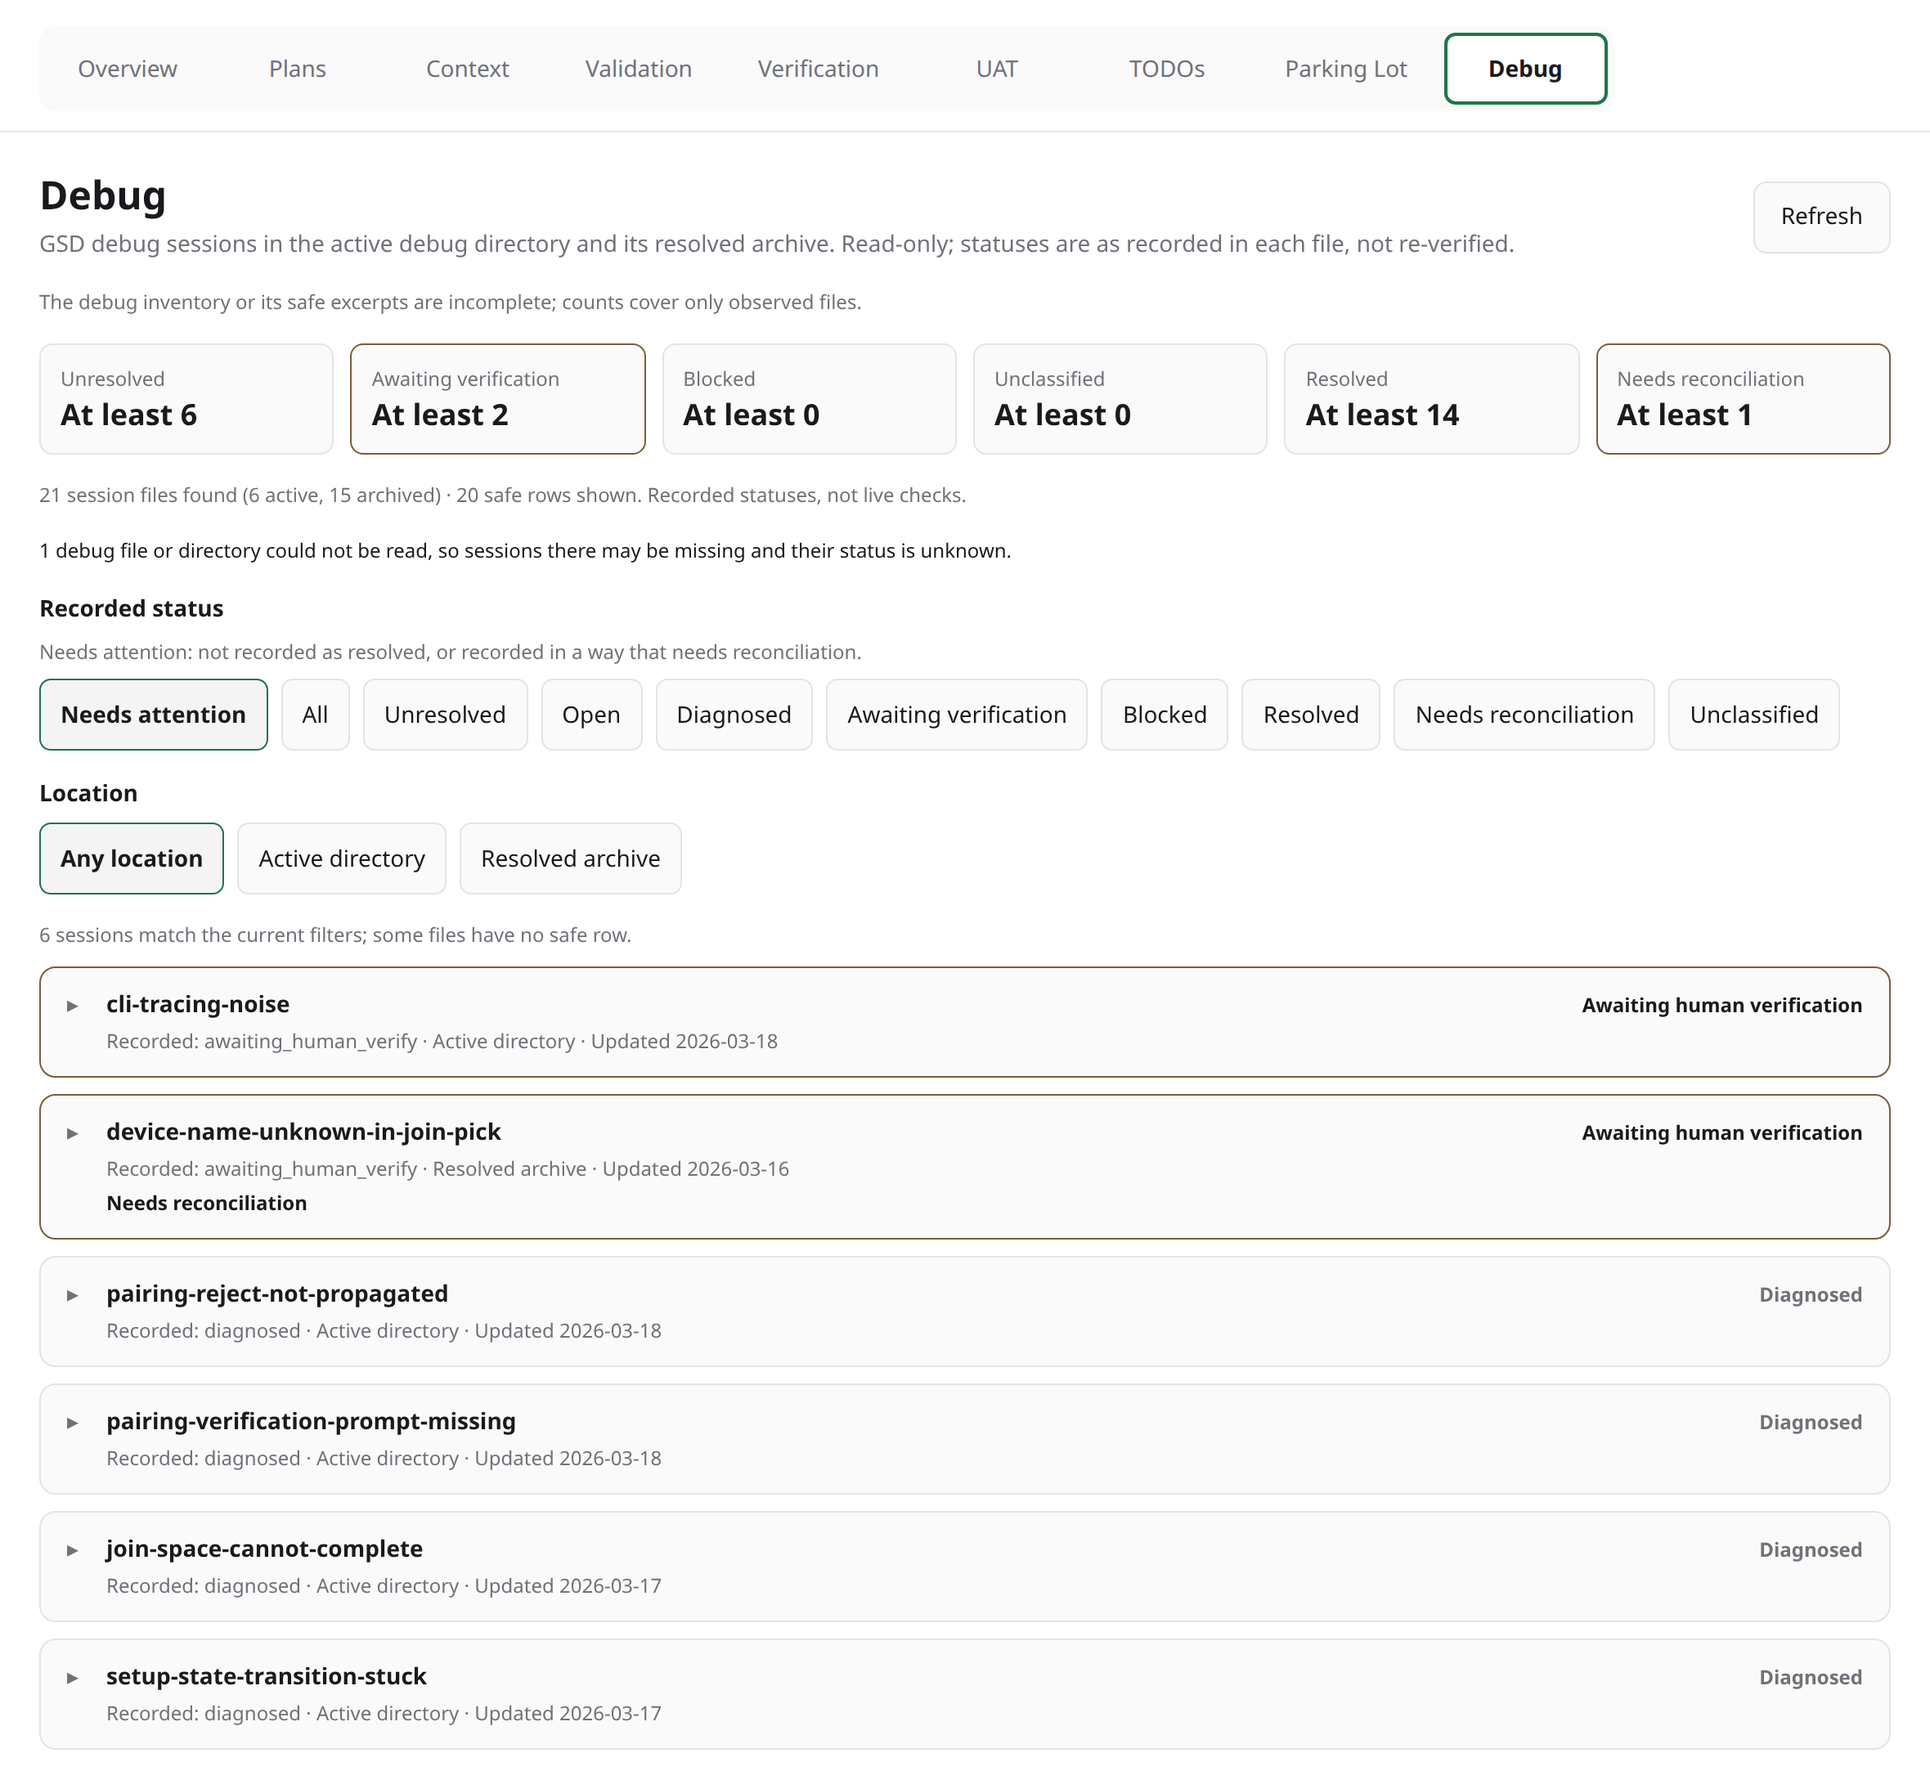
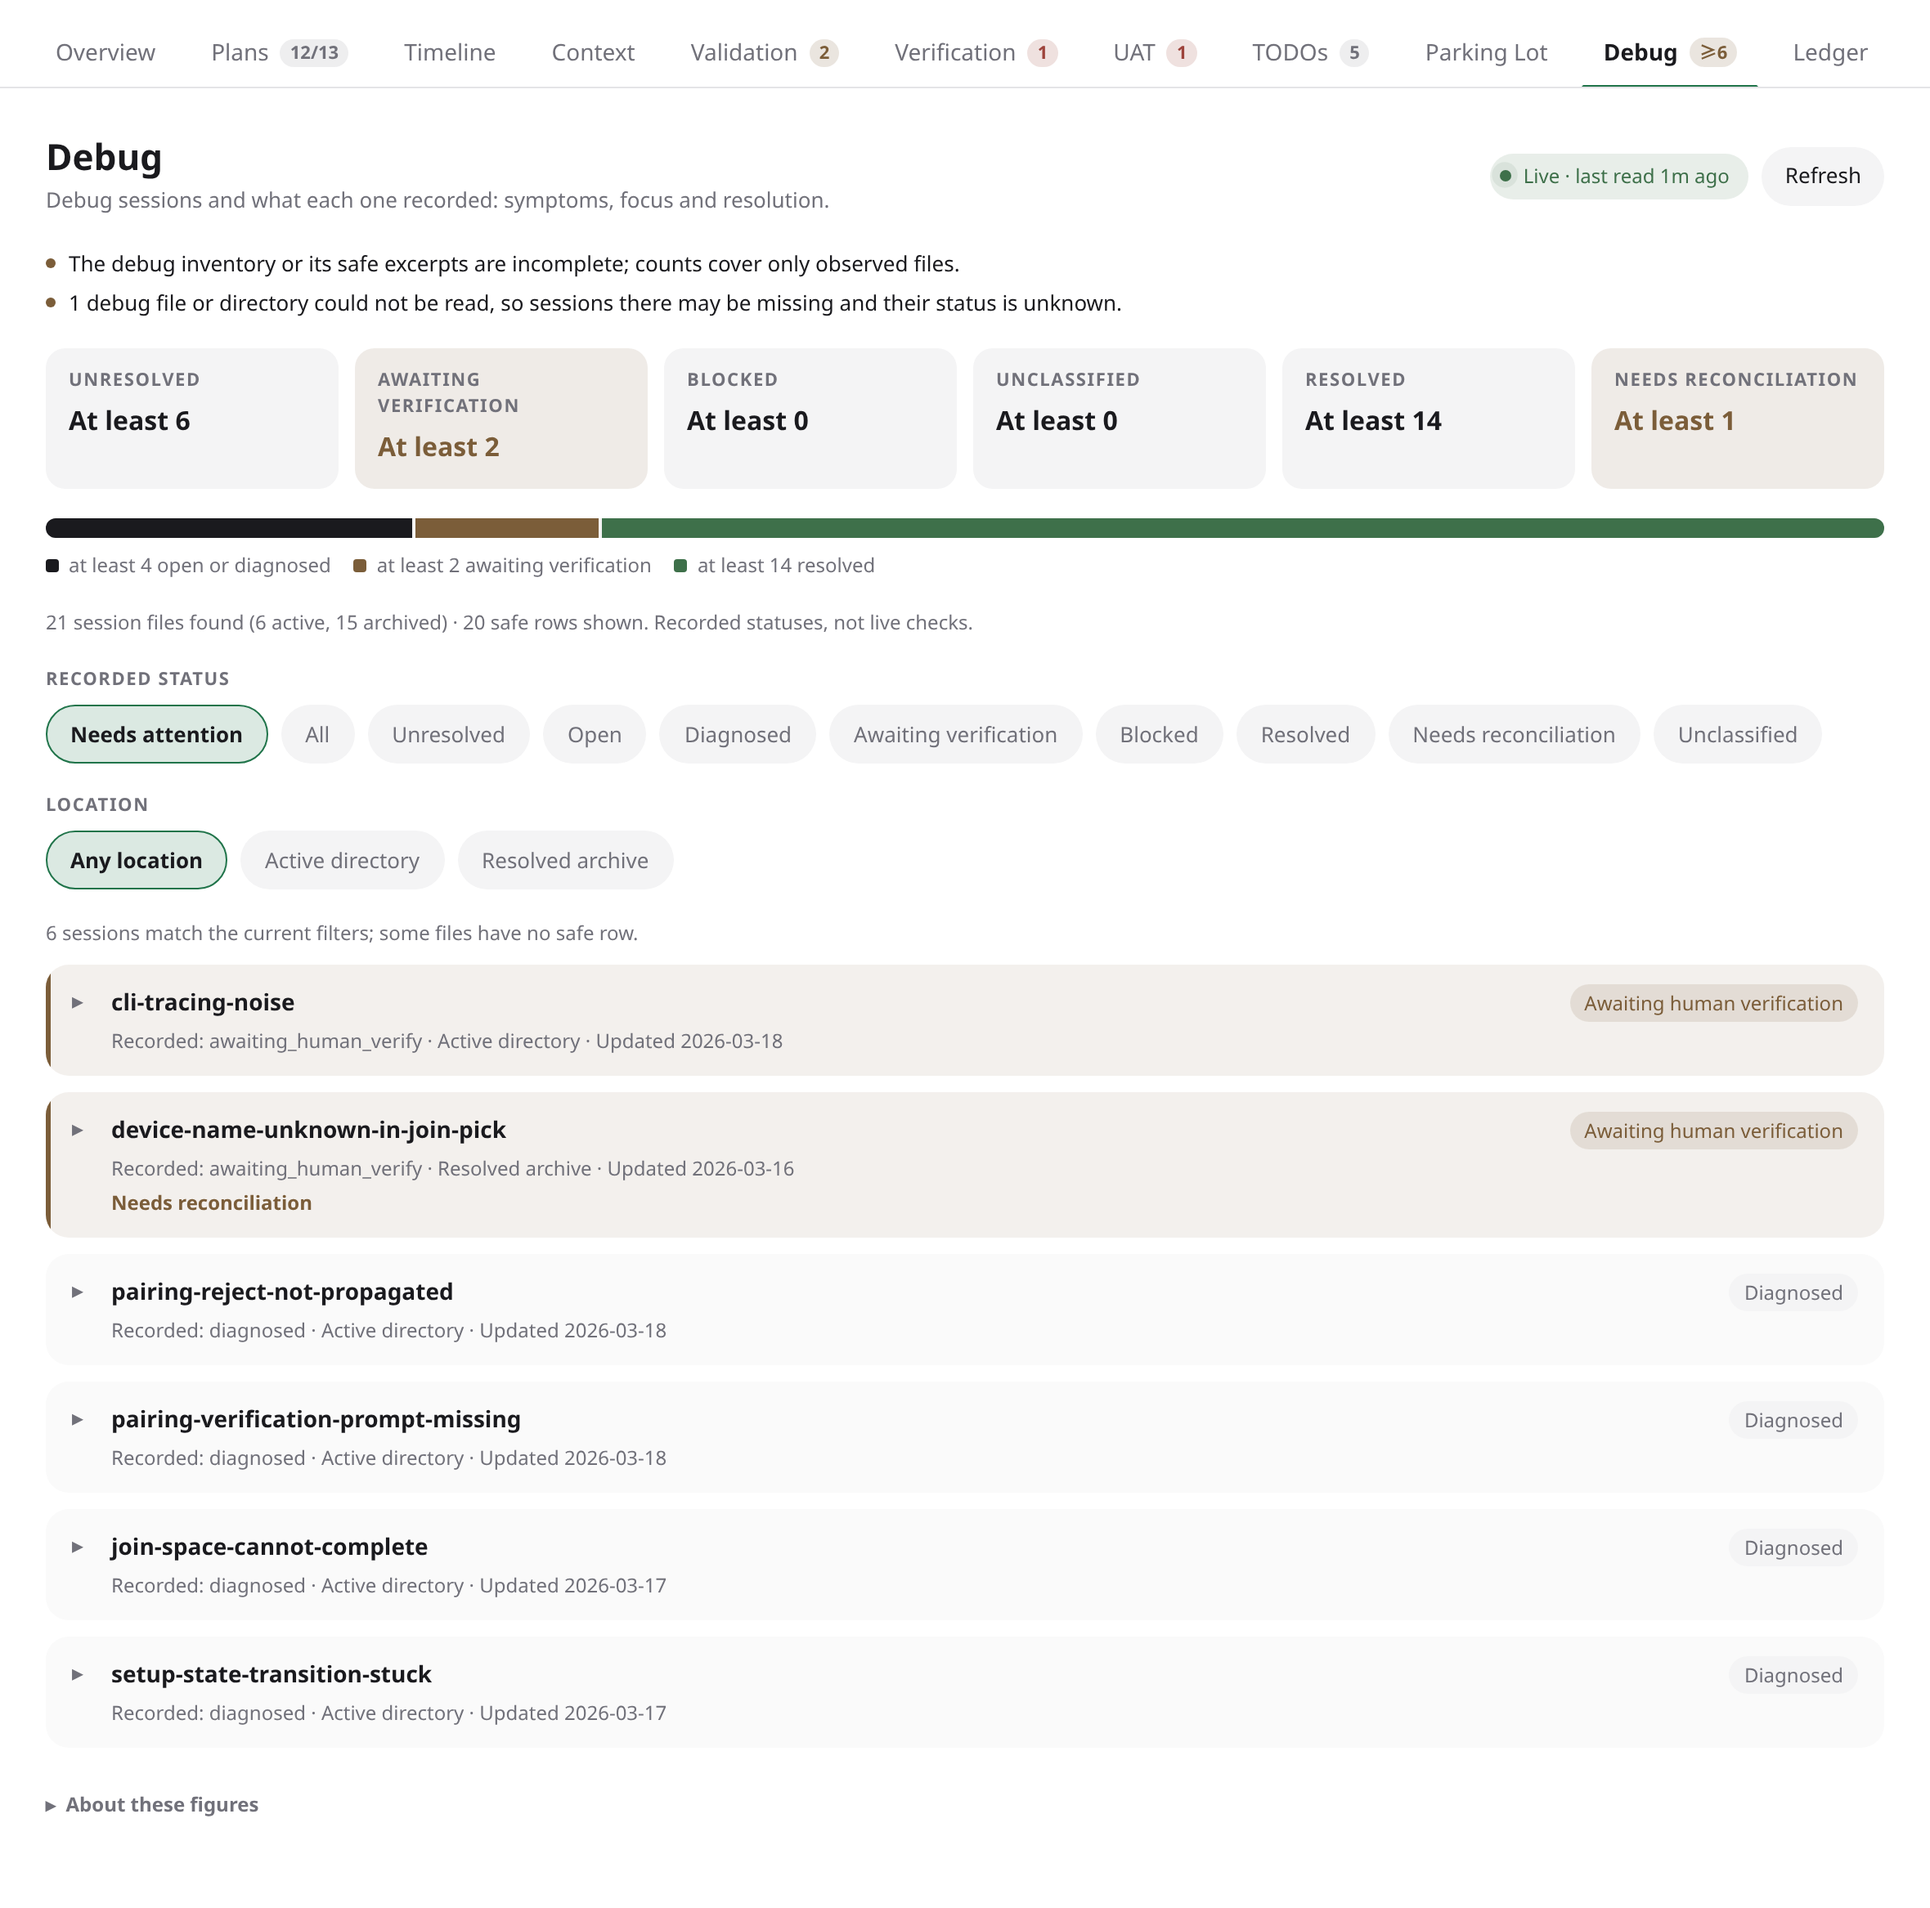
docs: update the screenshots for the redesigned GSD Core board
Shoot every GSD Core tab again from the UniClipboard showcase, adding
the Timeline and Ledger, and pair them in the README gallery. The host
usage behind the Timeline, Ledger and spend figures is illustrative,
built from the showcase's own phases and plan waves; the README says
so beside the other illustrative entries.

Capitalize the need that names sources the overview could not read.

diff --git a/client/overview-components.tsx b/client/overview-components.tsx
@@ -63,6 +63,7 @@ export function phaseStations(roadmap: BoardOverview["roadmap"], limit = 16): { 
 
 
 type Flagged = { id: string; danger: boolean; text: string };
+const capitalized = (words: string) => `${words[0]?.toUpperCase() ?? ""}${words.slice(1)}`;
 const listed = (items: readonly string[]) => items.length > 1 ? `${items.slice(0, -1).join(", ")} and ${items[items.length - 1]}` : items[0] ?? "";
 
 /** One line per kind of evidence: a single phase with its summary, several with their ids, the current one marked. */
@@ -93,7 +94,7 @@ export function coreNeeds(overview: BoardOverview, agent: WorkspaceAgent = null)
   if (debug.availability === "available" && debug.counts.unavailable > 0) unread.push(["some debug files", "debug"]);
   return [
     agent?.status === "needs_input" ? { tone: "warning", title: "An agent in this workspace is waiting for your input", detail: null, tab: null } satisfies Need : null,
-    unread.length ? { tone: "warning", title: `${listed(unread.map(([name]) => name))} could not be read`, detail: "Anything recorded there is not shown here.", tab: unread[0][1] } satisfies Need : null,
+    unread.length ? { tone: "warning", title: capitalized(`${listed(unread.map(([name]) => name))} could not be read`), detail: "Anything recorded there is not shown here.", tab: unread[0][1] } satisfies Need : null,
     flaggedNeed("UAT", "uat", uat, current),
     flaggedNeed("verification", "verification", verification, current),
     flaggedNeed("validation", "validation", validation, current),

diff --git a/tests/client/overview.test.tsx b/tests/client/overview.test.tsx
@@ -449,7 +449,7 @@ describe("Overview needs", () => {
     expect(coreNeeds(data).at(-1)?.title).toBe("1 debug session not resolved");
     // Unreadable debug files make the count a lower bound and are named as unread.
     data.debug.counts = { ...data.debug.counts, unavailable: 1 };
-    expect(coreNeeds(data).map((need) => need.title)).toEqual(expect.arrayContaining(["some debug files could not be read", "At least 1 debug session not resolved"]));
+    expect(coreNeeds(data).map((need) => need.title)).toEqual(expect.arrayContaining(["Some debug files could not be read", "At least 1 debug session not resolved"]));
   });
 
   it("lists the needs and opens the tab each one is in, beside the live agent status", () => {

diff --git a/README.md b/README.md
@@ -2,9 +2,9 @@
 
 A read-only Paseo plugin for understanding the persisted state of a GSD project. It turns the selected workspace's current planning evidence into accessible, read-only tabs—without running GSD, creating worktrees, merging code, or declaring work complete. It reads both GSD Core projects (`.planning/`) and GSD Path projects (`.project/`), from the upstream package or a fork.
 
-![Overview tab showing STATE, roadmap progress, and requirements](docs/screenshots/overview.png)
+![Overview tab showing the current phase and its stages, what needs attention, the headline figures and where the money went](docs/screenshots/overview.png)
 
-Screenshots show a copy of the public [UniClipboard](https://github.com/UniClipboard/UniClipboard) project's planning, adapted for this showcase: some files were renamed or reformatted to GSD conventions, and the validation, UAT, parking-lot, and backlog TODO entries are illustrative. Project text appears in its original language.
+Screenshots show a copy of the public [UniClipboard](https://github.com/UniClipboard/UniClipboard) project's planning, adapted for this showcase: some files were renamed or reformatted to GSD conventions, and the validation, UAT, parking-lot, and backlog TODO entries are illustrative, as is the host usage behind the Timeline, Ledger and spend figures. Project text appears in its original language.
 
 ## What it shows
 
@@ -28,15 +28,17 @@ Host usage is read from the same session logs, and tokens and costs are counted 
 
 Each phase chip carries a short status line and a mark when the phase's evidence needs a look. Tabs carry small badges: plan summaries written, phases needing a look in UAT, Verification and Validation, pending TODOs and unresolved debug sessions.
 
-| Plans | Context |
+| Plans | Timeline |
 | --- | --- |
-| ![Plans tab showing the current phase's progress stages and plans](docs/screenshots/plans.png) | ![Context tab showing a phase boundary and numbered decisions](docs/screenshots/context.png) |
-| **Validation** | **Verification** |
-| ![Validation tab showing a per-task verification map and open sign-off items](docs/screenshots/validation.png) | ![Verification tab showing a phase whose report records an open gap and an unresolved human check](docs/screenshots/verification.png) |
-| **UAT** | **TODOs** |
-| ![UAT tab showing passing, failing, and pending acceptance tests](docs/screenshots/uat.png) | ![TODOs tab listing standalone TODO files by folder](docs/screenshots/todos.png) |
-| **Parking Lot** | **Debug** |
-| ![Parking Lot tab listing parked and absorbed backlog entries](docs/screenshots/parking-lot.png) | ![Debug tab listing sessions by recorded status](docs/screenshots/debug.png) |
+| ![Plans tab showing a phase's stage track, sub-checks, the selected plan's evidence and spend, and its plans wave by wave](docs/screenshots/plans.png) | ![Timeline tab showing the open phase's plans executing wave by wave on one time axis, with the orchestrator above](docs/screenshots/timeline.png) |
+| **Context** | **Validation** |
+| ![Context tab showing a phase boundary and numbered decisions](docs/screenshots/context.png) | ![Validation tab showing a per-task verification map and open sign-off items](docs/screenshots/validation.png) |
+| **Verification** | **UAT** |
+| ![Verification tab showing a phase whose report records an open gap and an unresolved human check](docs/screenshots/verification.png) | ![UAT tab showing passing, failing, and pending acceptance tests as a bar and one by one](docs/screenshots/uat.png) |
+| **TODOs** | **Parking Lot** |
+| ![TODOs tab listing standalone TODO files by folder](docs/screenshots/todos.png) | ![Parking Lot tab listing parked backlog entries](docs/screenshots/parking-lot.png) |
+| **Debug** | **Ledger** |
+| ![Debug tab listing sessions by recorded status](docs/screenshots/debug.png) | ![Ledger tab showing the workspace's host usage and models](docs/screenshots/ledger.png) |
 
 ### GSD Path workspaces
 
